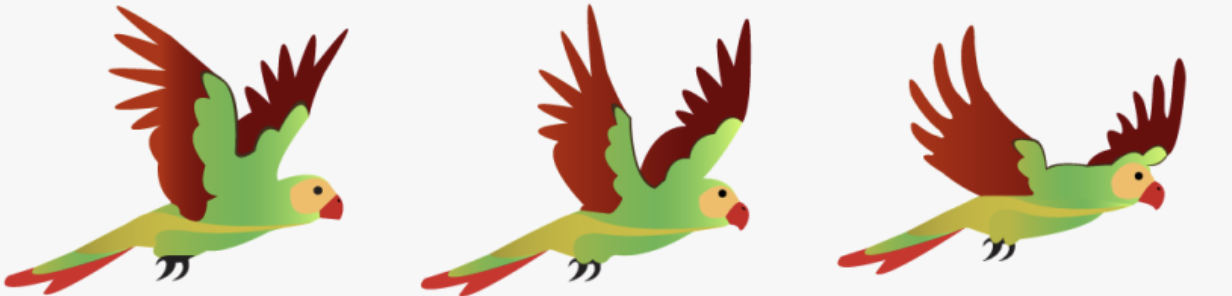
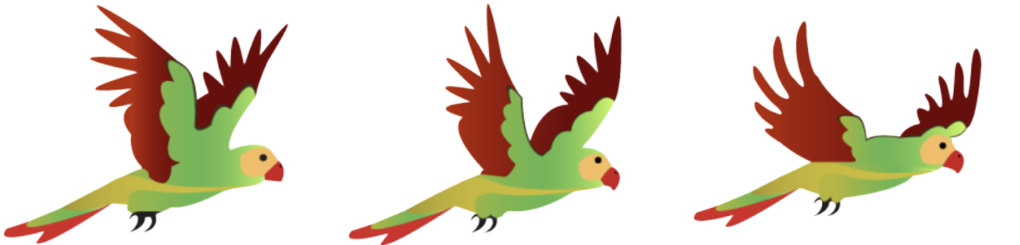
april12Commit

diff --git a/112TermProject.py b/112TermProject.py
@@ -23,32 +23,30 @@ from PIL import Image
 # --------------------------------------------------------------------------
 # --------------------------------------------------------------------------
 
-class Bird:
-    inventory = []
+class Bird(object):
+    
     def __init__(self):
-        #self.flagBirdWings()
+        self.inventory = []
         self.birdCounter = 0
         self.maxInventory = 6 #pollen inventory can hold up to 6 colors
-    
-    def flagBirdWings(self):
+        self.birds = []
+        self.newWidth = None # get the resized bird's image
+        self.newHeight = None # get the resized bird's image
+
+        # load the bird picture
         # The bird picture is from 
         # https://www.pngitem.com/middle/
         # ihbJiib_transparent-bird-bird-sprite-sheet-png-png-download/
         url = 'birdPic.png'
-        picWidth, picHeight = getImageSize(url)
         birdImage = Image.open(url)
-        print(f"{picWidth, picHeight = }")
         birdImageNum = 3 
-        birds = []
         for i in range(birdImageNum):
-            bird = birdImage.crop((308*i, 0, 308*(i + 1), 1232))
-            birds.append(CMUImage(bird))
-            #print(getImageSize(CMUImage(bird)))
+            bird = birdImage.crop((320*i, 0, 320*(i + 1), 1232))
+            imageWidth, imageHeight = bird.width, bird.height
+            self.newWidth, self.newHeight = (imageWidth // 3, imageHeight // 3)
+            self.birds.append(CMUImage(bird))
         self.birdCounter = 0
-        return birds
-
-    def onStep(self):
-        pass
+        self.stepCounter = 0
 
     def getTarget(self):
         pass
@@ -57,9 +55,6 @@ class Bird:
         pass
 
     def gather(self, other):
-        pass
-
-    def redraw(self, app):
         pass
 
 # --------------------------------------------------------------------------
@@ -78,22 +73,26 @@ class Player(Bird):
         self.cursorY = y 
         self.playerSteps = 0
         self.playerStepsPerSecond = 4
-        self.birds = self.flagBirdWings()
+        # self.birds = self.flagBirdWings()
     
     def drawPlayer(self, app):
-        drawCircle(self.x, self.y, 30, fill='cyan')
-        # birdImage = self.birds[self.birdCounter]
-        # drawImage(birdImage, self.x, self.y, align='center')
+        #drawCircle(self.x, self.y, 30, fill='cyan')
+        bird = self.birds[self.birdCounter]
+        drawImage(bird, self.x, self.y, align='center', 
+                  width=self.newWidth, height=self.newHeight)
 
     def playerOnStep(self):
         self.makeMovement() #move locations to the cursors
-        #self.birdCounter = (1 + self.birdCounter) % len(self.birds)
+        self.stepCounter += 1
+        if self.stepCounter >= 5: #update the sprite every 5 steps
+            self.birdCounter = (1 + self.birdCounter) % len(self.birds)
+            self.stepCounter = min(0, self.stepCounter)
        
     def makeMovement(self):
-        #get the movement distance between the cursor and current locations
+        #get the movement distances between the cursor and current locations
         moveDistanceX = self.cursorX - self.x
         moveDisctanceY = self.cursorY - self.y
-        #update the locations
+        #update the locations with 1/8 of the current distances
         self.x += moveDistanceX / 8
         self.y += moveDisctanceY / 8
 
@@ -107,8 +106,8 @@ class Player(Bird):
         pass
 
     def drawInventory(self, app):
-        for i in range(len(Player.inventory)):
-            color = Player.inventory[i]
+        for i in range(len(self.inventory)):
+            color = self.inventory[i]
             drawCircle(10+i*15, 10, 10, fill=color)
 
 
@@ -153,13 +152,13 @@ class Flower(object):
 
     def drawFlower(self, app):
         if self.isPollinator:    
-            #solid color for pollinator
+            #solid circles for pollinator
             drawCircle(self.x, self.y, self.radius, fill=self.color)
             if self.isGathered:
                 drawCircle(self.x, self.y, self.radius, fill = 'white',
                             border=self.color, borderWidth=4)
         else:
-            # hollow circle for pollinated
+            # hollow circles for pollinated
             drawCircle(self.x, self.y, self.radius, fill='white',
                            border=self.color, borderWidth=4)
             if self.toBePollinated: 
@@ -180,14 +179,16 @@ class Flower(object):
             inventory = app.player.inventory
             max = app.player.maxInventory
             if (len(inventory) <= max) and (self.isPollinator):
-                self.isGathered = True #not self.isGathered
-                if self.radius <= 30: #set the max radius of the flowers to 30
-                    self.radius += 1 
+                self.isGathered = True 
+                #set the max radius of the flowers to 30
+                maxFlowerRadius = 30
+                if self.radius <= maxFlowerRadius: 
+                    self.radius += 1 #increment of the radius
             if ((len(inventory) >= 0) and (self.color in inventory) and 
                 (not self.isPollinator)): 
                 self.toBePollinated = True 
                 if self.radius <= 30:
-                    self.radius += 1 
+                    self.radius += 1 #increment of the radius
                 inventory.remove(self.color)
 
     def redraw(self, x=None, y=None):
@@ -238,6 +239,7 @@ def removeFlowers(app):
     i = 0
     while i < len(app.flowers):
         flower = app.flowers[i]
+        #remove the flower that is outside of the cavas
         if flower.y < - flower.radius:
             app.flowers.pop(i)
         else:
@@ -245,7 +247,9 @@ def removeFlowers(app):
 
 def generateFlowers(app):
     #generate 4 flowers per second with a total of 30 flowers on the screen
-    if (app.flowerSteps % app.flowerPerSecond == 0) and (len(app.flowers) < 30):
+    totalFlowerNumber = 30
+    if ((app.flowerSteps % app.flowerPerSecond == 0) and 
+        (len(app.flowers) <= totalFlowerNumber)):
         #randomly generate pollinator or pollinated
         isPollinator = random.choice([True, False])
         app.flowers.append(Flower(isPollinator, app))
